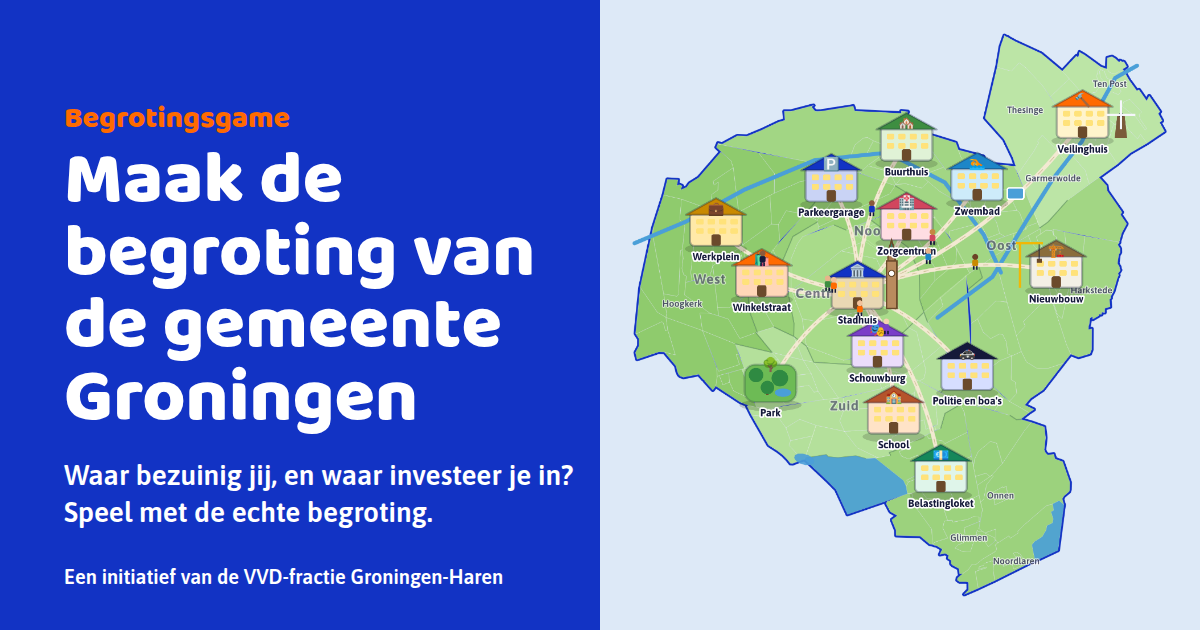
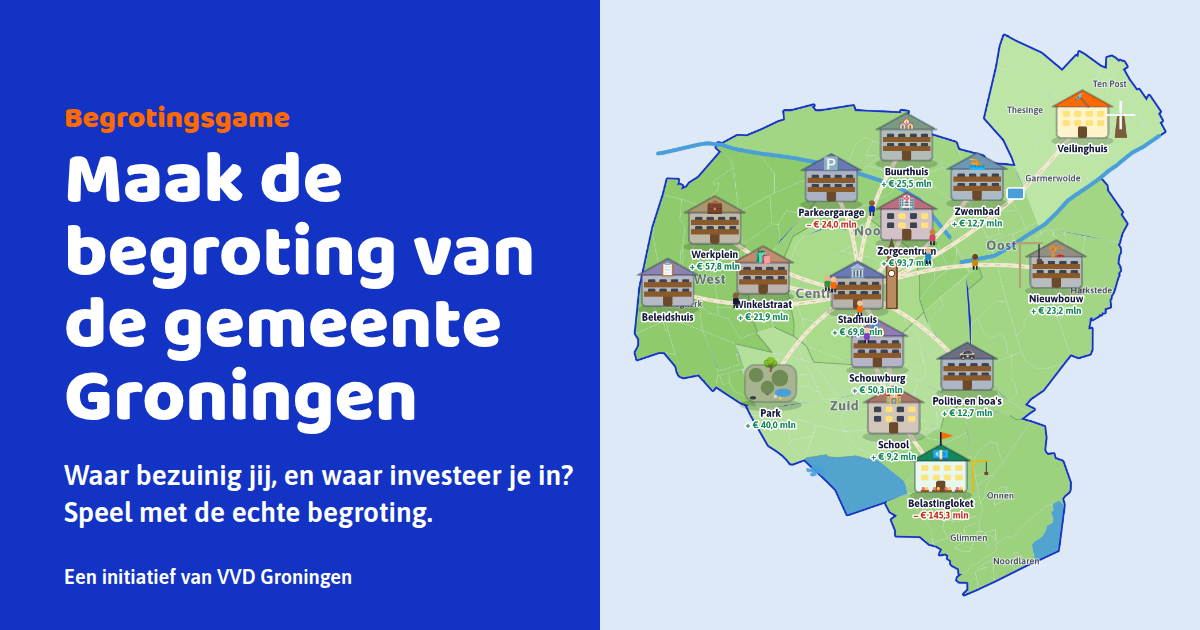
Afzender overal VVD Groningen
"VVD-fractie Groningen-Haren" heet nu overal VVD Groningen: colofon, insturen,
privacyverklaring, deelplaatje, Word-document, afbeelding en metadata. Waar het
om de fractie gaat (wie de inzendingen ziet), staat "de fractie van VVD
Groningen", zodat de privacytekst niet ruimer wordt dan hij was.

Claude-Session: https://claude.ai/code/session_01J7Y1mjfffFJf9u7LEa6HGi

diff --git a/privacy.html b/privacy.html
@@ -16,8 +16,9 @@
       <a class="terug" href="/">← Terug naar de game</a>
       <h1>Privacyverklaring</h1>
       <p>
-        De Begrotingsgame is een initiatief van de VVD-fractie Groningen-Haren in de gemeenteraad
-        van Groningen. Hier lees je welke gegevens we gebruiken, waarom, en wat je rechten zijn.
+        De Begrotingsgame is een initiatief van VVD Groningen: de fractie van de VVD in de
+        gemeenteraad van Groningen. Hier lees je welke gegevens we gebruiken, waarom, en wat je
+        rechten zijn.
       </p>
       <p class="klein">Versie 1, 1 oktober 2026.</p>
 
@@ -67,10 +68,9 @@
 
       <h2>Wie ziet het, en hoe lang bewaren we het?</h2>
       <p>
-        Alleen leden en medewerkers van de VVD-fractie Groningen-Haren die daarvoor zijn
-        uitgenodigd. Zij moeten inloggen. Elk eigen idee lezen we eerst, voordat we het ergens
-        gebruiken. We bewaren alles <strong>2 jaar</strong>. Daarna wordt het automatisch
-        verwijderd.
+        Alleen leden en medewerkers van de fractie van VVD Groningen die daarvoor zijn uitgenodigd.
+        Zij moeten inloggen. Elk eigen idee lezen we eerst, voordat we het ergens gebruiken. We
+        bewaren alles <strong>2 jaar</strong>. Daarna wordt het automatisch verwijderd.
       </p>
       <p>
         De gegevens staan in een database van Supabase, op servers in de Europese Unie. De website

diff --git a/src/game/tegenbegroting/document.ts b/src/game/tegenbegroting/document.ts
@@ -260,7 +260,7 @@ export function maakTegenbegroting(data: Data, r: Resultaat, meta: Meta): Tegenb
     bronnen: [
       `${data.begroting.document}: ${data.begroting.bron_url}`,
       ...data.vergelijking.map((v) => `${v.tegenbegroting.titel}: ${v.tegenbegroting.bron_url}`),
-      'Gemaakt met de Begrotingsgame, een initiatief van de VVD-fractie Groningen-Haren.',
+      'Gemaakt met de Begrotingsgame, een initiatief van VVD Groningen.',
     ],
     aanname:
       'S = structureel: elk jaar. I = incidenteel: eenmalig. Bedragen uit de begroting zijn feiten. Kettingeffecten (⚠) zijn aannames of spelregels; ze zijn berekend met het scenario "' +

diff --git a/src/ui/tegenbegroting/afbeelding.ts b/src/ui/tegenbegroting/afbeelding.ts
@@ -108,7 +108,7 @@ export async function maakAfbeelding(
   const kortLink = link.replace(/^https?:\/\//, '').split('?')[0] ?? link;
   ctx.fillText(kortLink, 72, H - 72);
   ctx.font = '400 24px Asap, sans-serif';
-  ctx.fillText('Een initiatief van de VVD-fractie Groningen-Haren', 72, H - 32);
+  ctx.fillText('Een initiatief van VVD Groningen', 72, H - 32);
 
   return new Promise((klaar, fout) =>
     c.toBlob((b) => (b ? klaar(b) : fout(new Error('Geen afbeelding.'))), 'image/png'),

diff --git a/scripts/maak-og.ts b/scripts/maak-og.ts
@@ -54,7 +54,7 @@ try {
       <h1>Maak de begroting van de gemeente Groningen</h1>
       <p>Waar bezuinig jij, en waar investeer je in? Speel met de echte begroting.</p>
     </div>
-    <p class="colofon">Een initiatief van de VVD-fractie Groningen-Haren</p>
+    <p class="colofon">Een initiatief van VVD Groningen</p>
   </body></html>`);
   await blad.evaluate(() => document.fonts.ready);
   await blad.screenshot({ path: resolve(WORTEL, 'public/og-afbeelding.png') });

diff --git a/index.html b/index.html
@@ -6,7 +6,7 @@
     <meta name="theme-color" content="#1233C4" />
     <meta
       name="description"
-      content="Maak de begroting van de gemeente Groningen. Een initiatief van de VVD-fractie Groningen-Haren."
+      content="Maak de begroting van de gemeente Groningen. Een initiatief van VVD Groningen."
     />
     <link rel="icon" href="/icoon.svg" type="image/svg+xml" />
     <link rel="apple-touch-icon" href="/icoon-192.png" />

diff --git a/vite.config.ts b/vite.config.ts
@@ -148,7 +148,7 @@ export default defineConfig({
         name: 'Begrotingsgame gemeente Groningen',
         short_name: 'Begrotingsgame',
         description:
-          'Maak de begroting van de gemeente Groningen. Een initiatief van de VVD-fractie Groningen-Haren.',
+          'Maak de begroting van de gemeente Groningen. Een initiatief van VVD Groningen.',
         lang: 'nl',
         start_url: '.',
         display: 'standalone',

diff --git a/docs/VIDEO-ONTWERP.md b/docs/VIDEO-ONTWERP.md
@@ -11,13 +11,13 @@ WhatsApp. De video laat zien wat de speler met de begroting van de gemeente heef
 
 ### Storyboard
 
-| Tijd      | Scène                | Wat je ziet                                                                                                                                  |
-| --------- | -------------------- | -------------------------------------------------------------------------------------------------------------------------------------------- |
-| 0 – 3 s   | Intro                | Videofragment van Rik (aan te leveren), met ondertitels.                                                                                     |
-| 3 – 8 s   | De gemeente          | De gemeentekaart van bovenaf. De gebouwen veranderen één voor één (dicht, versoberd, beter, bloeiend), zoals in de game.                     |
-| 8 – 17 s  | Drie grootste keuzes | Per keuze 3 seconden: het gebouw zoomt in, met de naam en het bedrag dat optelt ("Overhead −10%: + € 12,3 mln per jaar").                    |
-| 17 – 21 s | Saldo                | Het geldpotje met het slot, het saldo per jaar en de sterren.                                                                                |
-| 21 – 24 s | Outro                | Videofragment van Rik, daarna "Maak je eigen begroting" met de link (en een QR-code) en "Een initiatief van de VVD-fractie Groningen-Haren". |
+| Tijd      | Scène                | Wat je ziet                                                                                                                 |
+| --------- | -------------------- | --------------------------------------------------------------------------------------------------------------------------- |
+| 0 – 3 s   | Intro                | Videofragment van Rik (aan te leveren), met ondertitels.                                                                    |
+| 3 – 8 s   | De gemeente          | De gemeentekaart van bovenaf. De gebouwen veranderen één voor één (dicht, versoberd, beter, bloeiend), zoals in de game.    |
+| 8 – 17 s  | Drie grootste keuzes | Per keuze 3 seconden: het gebouw zoomt in, met de naam en het bedrag dat optelt ("Overhead −10%: + € 12,3 mln per jaar").   |
+| 17 – 21 s | Saldo                | Het geldpotje met het slot, het saldo per jaar en de sterren.                                                               |
+| 21 – 24 s | Outro                | Videofragment van Rik, daarna "Maak je eigen begroting" met de link (en een QR-code) en "Een initiatief van VVD Groningen". |
 
 Alle tekst staat in beeld (ondertitels zijn ingebrand), zodat de video ook zonder geluid werkt. Er
 zijn geen flitsende effecten. Muziek staat standaard uit; als die er wel komt, is een licentie

diff --git a/PROMPT-claude-code.md b/PROMPT-claude-code.md
@@ -6,7 +6,7 @@ Je bent Claude Code. In deze map vind je alles wat je nodig hebt om een echte, g
 
 ## 1. Context en doel
 
-**Opdrachtgever:** Rik Heiner, fractievoorzitter van de VVD Groningen-Haren in de gemeenteraad van Groningen.
+**Opdrachtgever:** Rik Heiner, fractievoorzitter van de VVD Groningen in de gemeenteraad van Groningen.
 
 **Doel:** inwoners laten ervaren hoe een gemeentebegroting werkt, en wat de gevolgen zijn als je keuzes maakt. Elke euro kan maar één keer worden uitgegeven. Wie ergens geld weghaalt, ziet wat de gemeente dan niet meer doet. Wie investeert, moet dat eerst ergens anders vrijmaken. Aan het eind rolt er automatisch een complete, eigen tegenbegroting uit de game, in de vorm van de tegenbegroting die de fractie zelf indient. De fractie haalt zo input op voor bezuinigingen en investeringen.
 
@@ -432,7 +432,7 @@ Een optioneel paneel waarin de speler een paar vragen beantwoordt, zonder dat ie
 - **Knoppen:** dik en tastbaar, met een 3D-rand die indrukt. Minimaal 44×44 pixels.
 - **HUD bovenaan, altijd zichtbaar:** geldpotje met slot, saldo structureel, saldo eenmalig, blije inwoners, en een missiebalk met de knop Indienen.
 - **Paneel:** een bottom sheet op mobiel, een zijpaneel op desktop.
-- Een duidelijk colofon: "Een initiatief van de VVD-fractie Groningen-Haren", met de bronnen en de uitleg over aannames.
+- Een duidelijk colofon: "Een initiatief van VVD Groningen", met de bronnen en de uitleg over aannames.
 
 ---
 

diff --git a/README.md b/README.md
@@ -1,7 +1,7 @@
 # Begrotingsgame gemeente Groningen
 
 Een game waarin inwoners hun eigen tegenbegroting maken voor de gemeente Groningen.
-Een initiatief van de VVD-fractie Groningen-Haren. De volledige opdracht staat in
+Een initiatief van VVD Groningen. De volledige opdracht staat in
 [`PROMPT-claude-code.md`](PROMPT-claude-code.md).
 
 Stand: **fase 8 (klaar voor de lancering, op een paar in te vullen punten na)**. De game is speelbaar (kaart, HUD, panelen met schuif én bedrag, tutorial, inwoners, "Wat betekent het voor mij?", eindscherm, deellink, geluid, offline). De tegenbegroting gaat naar Word, PDF en een afbeelding. Spelers kunnen hun begroting met toestemming insturen; de fractie ziet alles in een afgeschermd dashboard (`/dashboard.html`). Wat er nog moet gebeuren voor de lancering, staat in [docs/LANCERING.md](docs/LANCERING.md). De debugpagina van de rekenmotor staat op `/#debug`.
